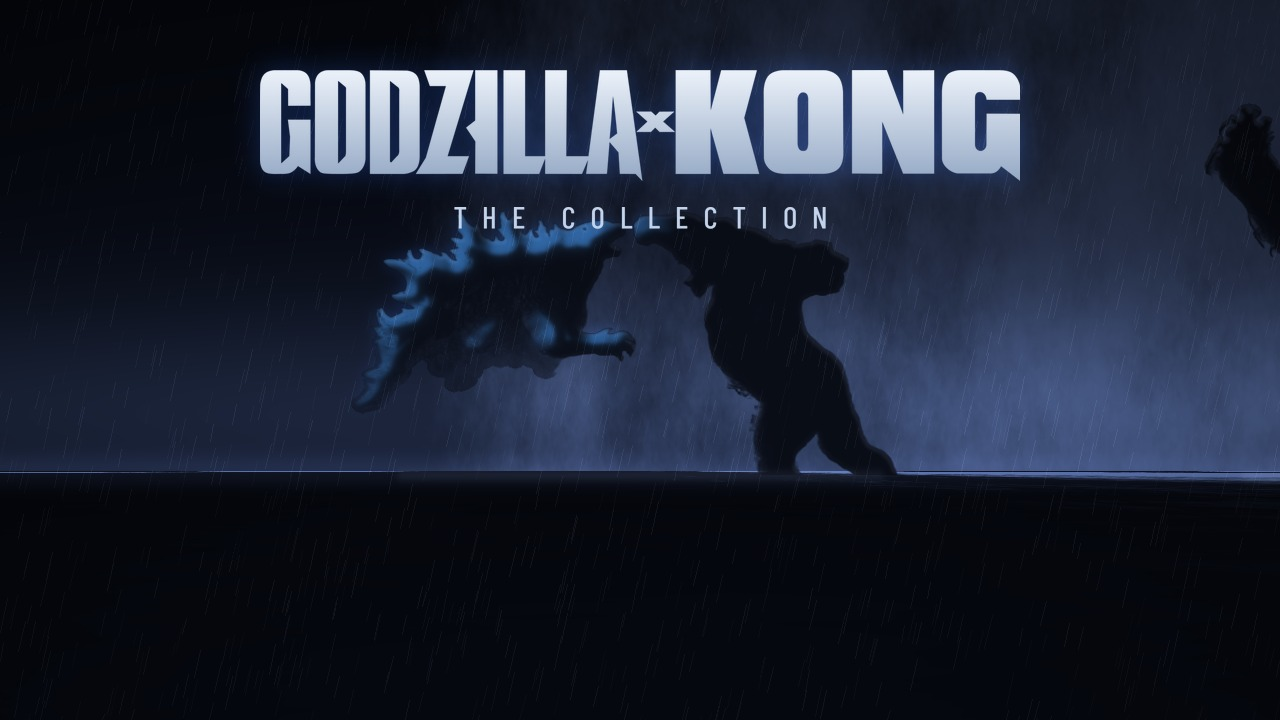
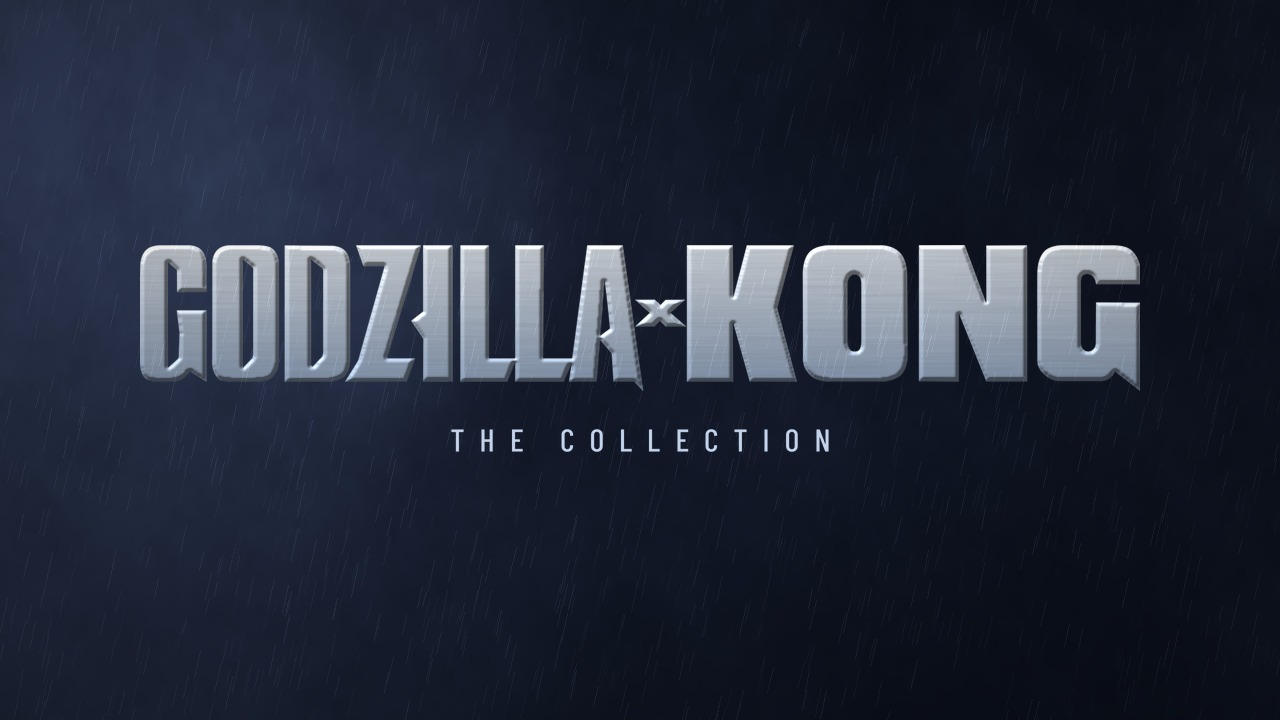
godzillakong: new card (storm ident: GODZILLA x KONG in steel, lightning reveals the Titans of every era, the last bolt strikes the x and charges the title, seamless hover)
Claude-Session: https://claude.ai/code/session_01QqcAdMGokHGeFf5PAk1q99

diff --git a/art/universes/godzillakong/_src/README.md b/art/universes/godzillakong/_src/README.md
@@ -1,8 +1,10 @@
-Godzilla & Kong card, rendered by nuvio-awards/art_tools/godzilla_storm.py:
-  python3 art_tools/godzilla_storm.py <this _src dir> <out dir>
-- logo.png: the GODZILLA x KONG line of the Godzilla x Kong: The New Empire title logo on TMDB (recoloured in the script).
-- elements/*.png: Titans cut out of official TMDB backdrops (King Kong 1933, Godzilla 1954, Godzilla vs. Destoroyah,
-  Shin Godzilla, Godzilla Minus One, Kong: Skull Island, Godzilla: King of the Monsters, Godzilla vs. Kong) with rembg
-  (isnet-general-use) and cleaned of poles, wires and the sun; nuvio-awards/art_tools/_wip_godzilla/ on the
+Godzilla & Kong card (storm ident), rendered by nuvio-awards/art_tools/gk_ident.py:
+  python3 art_tools/gk_ident.py <this _src dir> <out dir> --mode storm
+- logo.png: the GODZILLA x KONG line of the Godzilla x Kong: The New Empire title logo on TMDB, shaded as brushed steel
+  in the script.
+- elements/*.png: Titans cut out of official TMDB backdrops with rembg (isnet-general-use): Godzilla (1954),
+  King Kong (1933), Shin Godzilla, Godzilla Minus One, Godzilla: King of the Monsters, Kong: Skull Island. The script
+  reduces them to silhouettes that the lightning reveals; nuvio-awards/art_tools/_wip_godzilla/ on the
   wip/godzilla-storm branch has the cutting scripts.
 - Barlow Condensed (THE COLLECTION): SIL Open Font License, included.
+- backdrop.jpg is unchanged.
